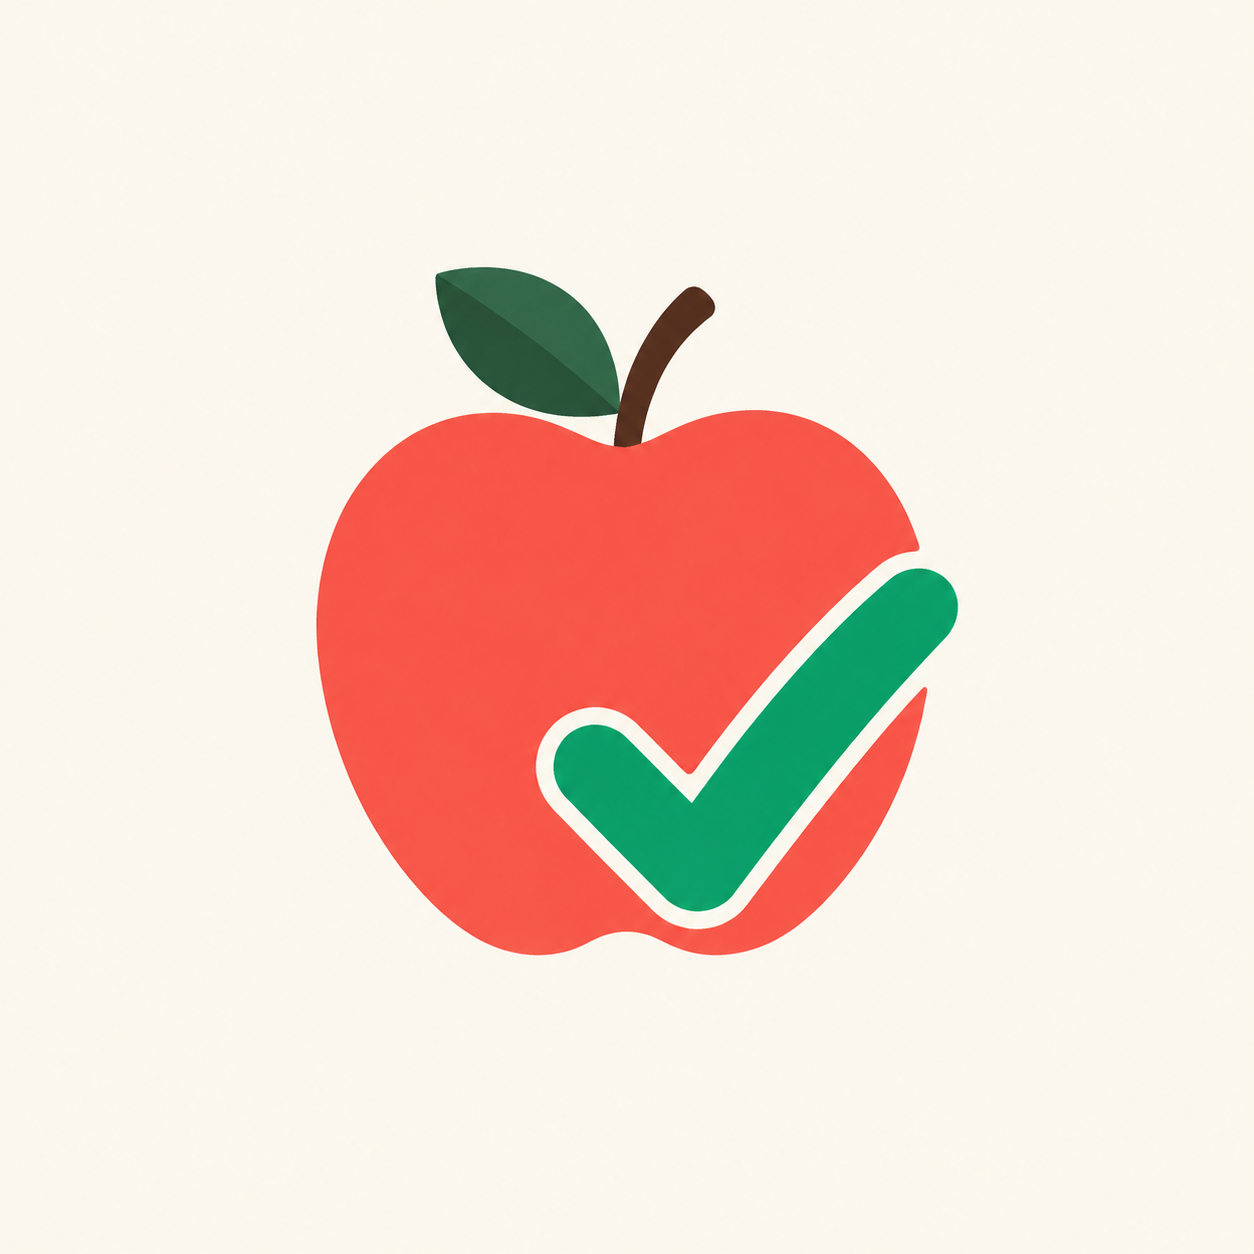
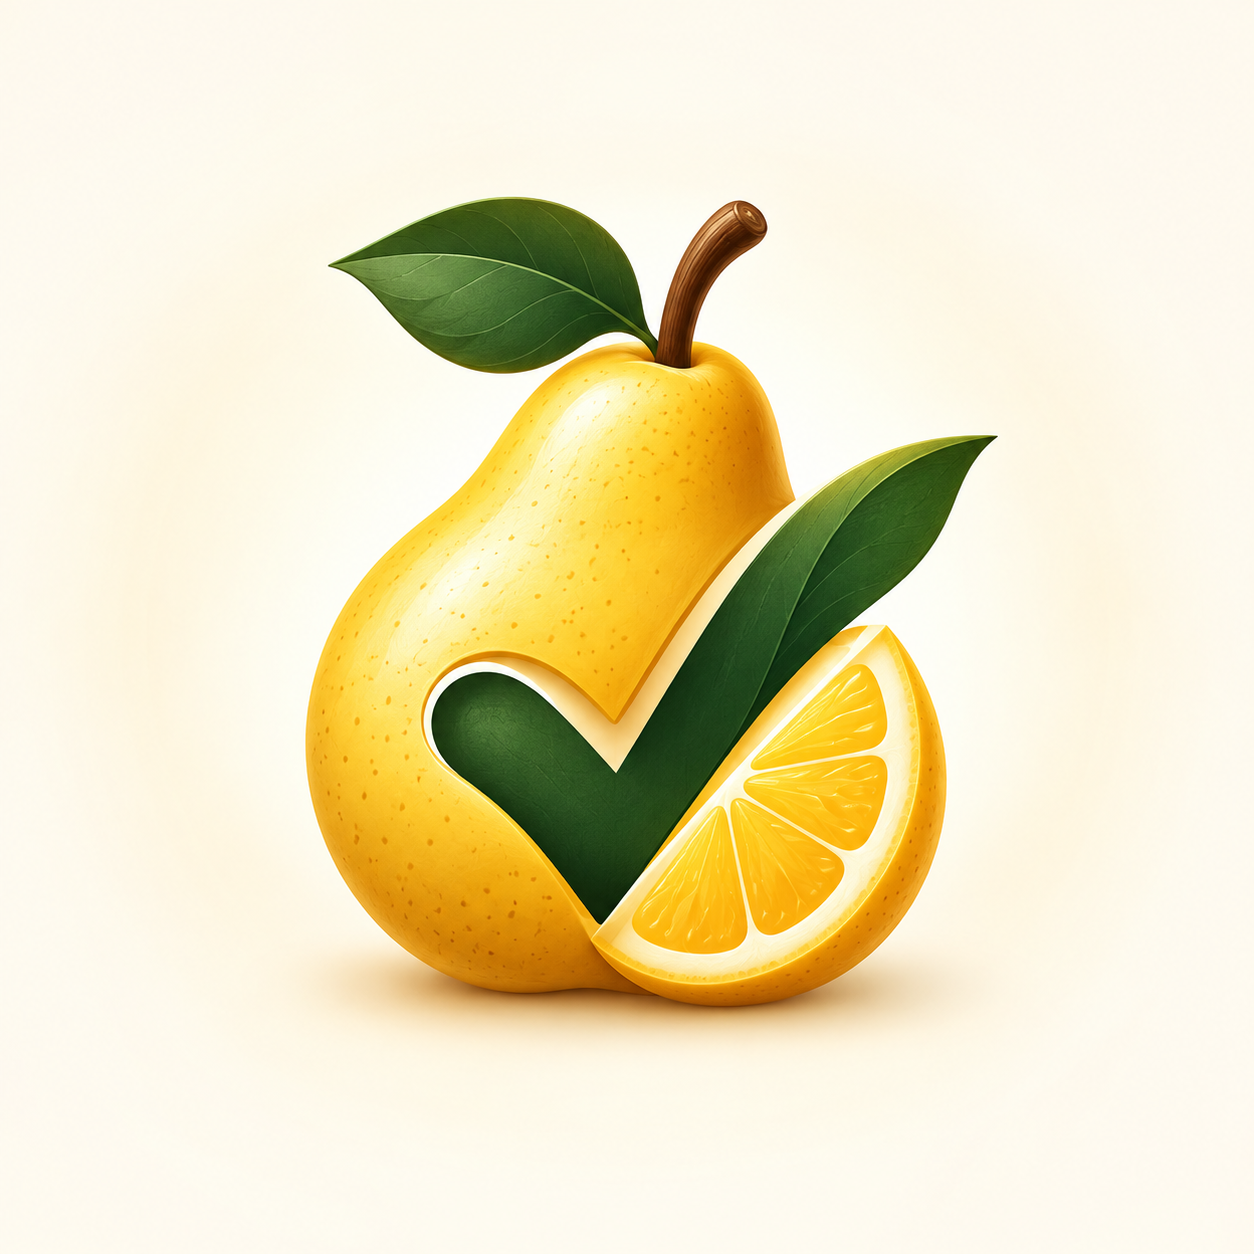
Publish Calorix 0.4.0

Changed region(s): [[0.2177, 0.1555, 0.8086, 0.8397]]

diff --git a/index.html b/index.html
@@ -1,12 +1,32 @@
 <!doctype html>
-<html lang="sl"><head><meta charset="utf-8"><meta name="viewport" content="width=device-width,initial-scale=1"><title>Calorix – preizkusna aplikacija</title><style>body{margin:0;background:#f5f5ee;color:#183e2f;font:17px/1.6 system-ui,sans-serif}main{max-width:560px;margin:8vh auto;padding:28px}img{width:112px;border-radius:28px}h1{font-size:42px;line-height:1.15}a{color:#206049}.download{display:inline-block;background:#206049;color:white;text-decoration:none;padding:14px 24px;border-radius:14px;font-weight:700}small{color:#647064}li{margin:8px 0}</style></head><body><main>
-<img src="icon.png" alt="Jabolko z zeleno kljukico"><p><small>ANDROID · INTERNO TESTIRANJE</small></p><h1>Tvoja prehrana.<br>Tvoj ritem.</h1><p>Calorix je slovenski dnevnik hrane s kalorijami, shranjenimi obroki in zgodovino.</p>
-<p><a class="download" href="https://github.com/TeckTek/food-track-updates/releases/latest">Prenesi zadnjo različico</a></p><p id="version"><small>Preizkusna različica. Seznam izdaj vsebuje APK in opis sprememb.</small></p>
-<ol><li>Na telefonu Android prenesi APK iz zadnje izdaje.</li><li>Odpri datoteko in potrdi namestitev. Android lahko zahteva dovoljenje za namestitev iz tega vira.</li><li>Pri naslednji različici te obvesti aplikacija. Namesti jo čez obstoječo, da ohraniš dnevnik.</li></ol>
-<p>Različica 0.3.4 ima pet stalnih zavihkov, hitri vnos po vrsti obroka in takojšen preračun kalorij za vneseno težo. Jajca lahko vneseš po kosih, doma pa spremljaš kalorije, makre, vodo in dnevni namig.</p>
-<p>Skeniraj črtno kodo ali vpiši številke izdelka. Iskanje uporablja Open Food Facts; pred shranjevanjem preveri podatke z deklaracijo. Vsi slovenski izdelki še niso v zbirki. Osnovna živila dopolnjujejo podatki USDA. Prepoznavanje hrane s fotografije in branje deklaracije s fotografije sta še v pripravi.</p>
-<p>Načrtovan obrok se prišteje v dnevnik šele z izbiro »Pojedeno«. Prijavo z Googlom ali potrjeno e-pošto, opomnike in posodobitve najdeš v Nastavitvah.</p>
-<p>Dnevnik gosta in dnevnik prijavljenega uporabnika sta ločena. Sinhronizacija med telefoni še ni vključena.</p>
-<p><small>Podatki dnevnika ostanejo na tvojem telefonu. Ob odstranitvi aplikacije se lahko izbrišejo. Ta stran in datoteke za prenos so javne.</small></p><p>Kontakt: <a href="mailto:marcanovi6243@gmail.com">marcanovi6243@gmail.com</a></p>
-<script>fetch('./latest.json',{cache:'no-store'}).then(r=>{if(!r.ok)throw Error();return r.json()}).then(r=>{document.getElementById('version').textContent='Različica '+r.version+' · '+r.notes}).catch(()=>{});</script>
-</main></body></html>
+<html lang="sl">
+<head>
+  <meta charset="utf-8">
+  <meta name="viewport" content="width=device-width,initial-scale=1">
+  <title>Calorix – preizkusna aplikacija</title>
+  <style>
+    body{margin:0;background:linear-gradient(145deg,#fff9e8,#fff0bd);color:#3d3923;font:17px/1.6 system-ui,sans-serif}
+    main{max-width:600px;margin:6vh auto;padding:28px}img{width:112px;border-radius:28px}h1{font-size:42px;line-height:1.15}
+    a{color:#76520d}.download{display:inline-block;background:#9a6810;color:white;text-decoration:none;padding:14px 24px;border-radius:14px;font-weight:700}
+    small{color:#746e52}li{margin:8px 0}.card{background:#fffdf7;border:1px solid #ebdfb8;border-radius:20px;padding:18px;margin:18px 0}
+  </style>
+</head>
+<body><main>
+  <img src="icon.png" alt="Zlati sadež Calorix z zeleno kljukico">
+  <p><small>ANDROID · INTERNO TESTIRANJE</small></p>
+  <h1>Tvoja prehrana.<br>Tvoj ritem.</h1>
+  <p>Calorix je slovenski dnevnik hrane s kalorijami, obroki, zgodovino, skenerjem in uporabnimi widgeti.</p>
+  <p><a class="download" href="https://github.com/TeckTek/food-track-updates/releases/latest">Prenesi zadnjo različico</a></p>
+  <p id="version"><small>Nalaganje podatkov o zadnji različici …</small></p>
+  <div class="card"><strong>Namestitev</strong><ol>
+    <li>Na telefonu Android prenesi APK iz zadnje izdaje.</li>
+    <li>Odpri datoteko in dovoli namestitev iz tega vira, če Android to zahteva.</li>
+    <li>Novo različico vedno namesti čez obstoječo, da ohraniš lokalne podatke.</li>
+  </ol></div>
+  <p>Različica 0.4.0 prinaša novo rumeno podobo in ikono, hiter približni vnos brez tehtanja, več velikosti widgetov, osebni pozdrav glede na čas ter podrobne nastavitve obvestil.</p>
+  <p>Skeniraj črtno kodo ali vpiši številke izdelka. Iskanje uporablja Open Food Facts, zato podatke pred shranjevanjem primerjaj z deklaracijo.</p>
+  <p>Dnevnik gosta ostane na telefonu. Pri potrjenem računu se podatki dnevnika samodejno sinhronizirajo med napravami; ime in e-poštni naslov nista del oblačnega zapisa.</p>
+  <p><small>Ta stran in Android datoteka za prenos sta javni. Kontakt: <a href="mailto:marcanovi6243@gmail.com">marcanovi6243@gmail.com</a></small></p>
+  <script>fetch('./latest.json',{cache:'no-store'}).then(r=>{if(!r.ok)throw Error();return r.json()}).then(r=>{document.getElementById('version').textContent='Različica '+r.version+' · '+r.notes}).catch(()=>{document.getElementById('version').textContent='Podatkov o različici trenutno ni mogoče prebrati.'});</script>
+</main></body>
+</html>
